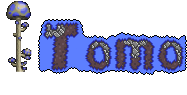
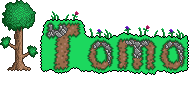
title one

diff --git a/src/main/java/tamagotchi/GameWindow.java b/src/main/java/tamagotchi/GameWindow.java
@@ -32,7 +32,11 @@ class GameWindow {
     public Scene           homeScene;
     public GraphicsContext homegc;
     Image homeImage = new Image("file:src/main/res/homeBG.png");
+    Image homeTxt1 = new Image("file:src/main/res/title_top.png");
+    Image homeTxt2 = new Image("file:src/main/res/title_bot.png");
     Rectangle homeBgRect = new Rectangle(width, height);
+    Rectangle homeTxtRect1 = new Rectangle(width/2 - 150, height/2 - 230, 200, 100);
+    Rectangle homeTxtRect2 = new Rectangle(width/2 - 60, height/2 - 230 + 70, 200, 100);
 
     // Game stuff
     GameScene gameScene = new GameScene(this);
@@ -54,6 +58,8 @@ class GameWindow {
         homegc = homeCanvas.getGraphicsContext2D();
         homeBgRect.setFill(new ImagePattern(homeImage));
         homeBgRect.setViewOrder(1000);
+        homeTxtRect1.setFill(new ImagePattern(homeTxt1));
+        homeTxtRect2.setFill(new ImagePattern(homeTxt2));
 
         // Create a button on the home screen
         Button startButton = new Button("Play");
@@ -94,6 +100,8 @@ class GameWindow {
         startButton.setLayoutX(width / 2 - 100); // Positioning the button (centered horizontally)
         startButton.setLayoutY(height / 2 + 150); // Positioning the button (below the title)
         homePane.getChildren().add(homeBgRect);
+        homePane.getChildren().add(homeTxtRect1);
+        homePane.getChildren().add(homeTxtRect2);
         homePane.getChildren().add(startButton);
 
         // Set the action for the button click
@@ -128,16 +136,16 @@ class GameWindow {
             // Draw the home image as the background
     
             // Set font and alignment for the title
-            homegc.setFill(Color.BLACK);
-            homegc.setTextAlign(TextAlignment.CENTER);
-            homegc.setFont(new Font("Impact", 100));
+            // homegc.setFill(Color.BLACK);
+            // homegc.setTextAlign(TextAlignment.CENTER);
+            // homegc.setFont(new Font("Impact", 100));
 
-            // Draw "Tomo" on the first line
-            homegc.fillText("Tomo", width / 2, height / 2 - 230);
+            // // Draw "Tomo" on the first line
+            // homegc.fillText("Tomo", width / 2, height / 2 - 230);
 
-            // Draw "Gotchi" on the second line
-            homegc.fillText("Gotchi", width / 2, height / 2 - 230 + 100);
-            homegc.setFill(Color.TRANSPARENT);
+            // // Draw "Gotchi" on the second line
+            // homegc.fillText("Gotchi", width / 2, height / 2 - 230 + 100);
+            // homegc.setFill(Color.TRANSPARENT);
 
             break;
         }
